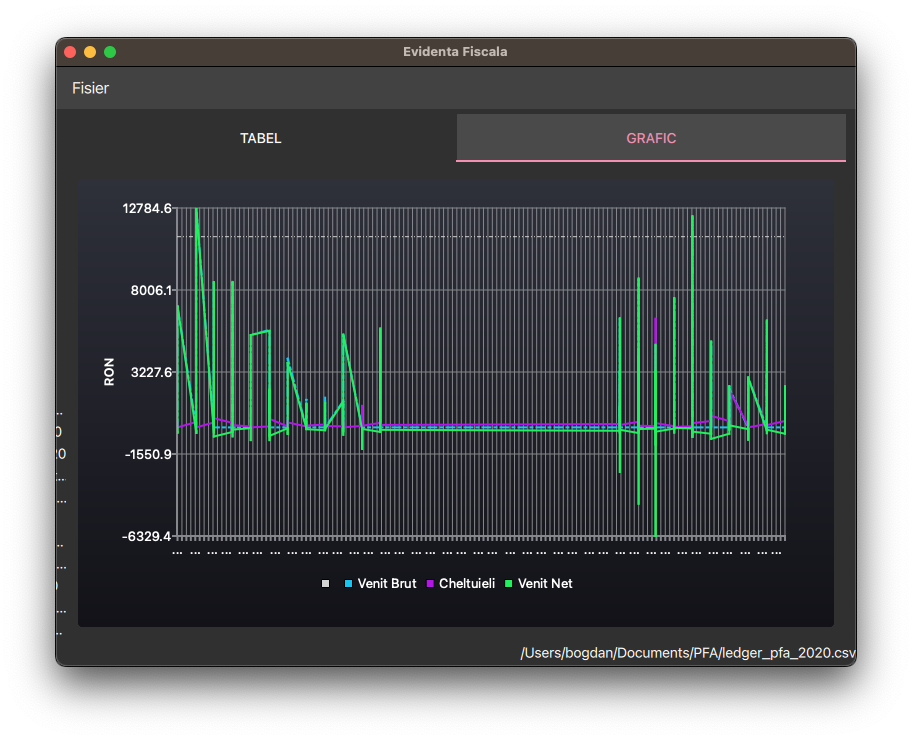
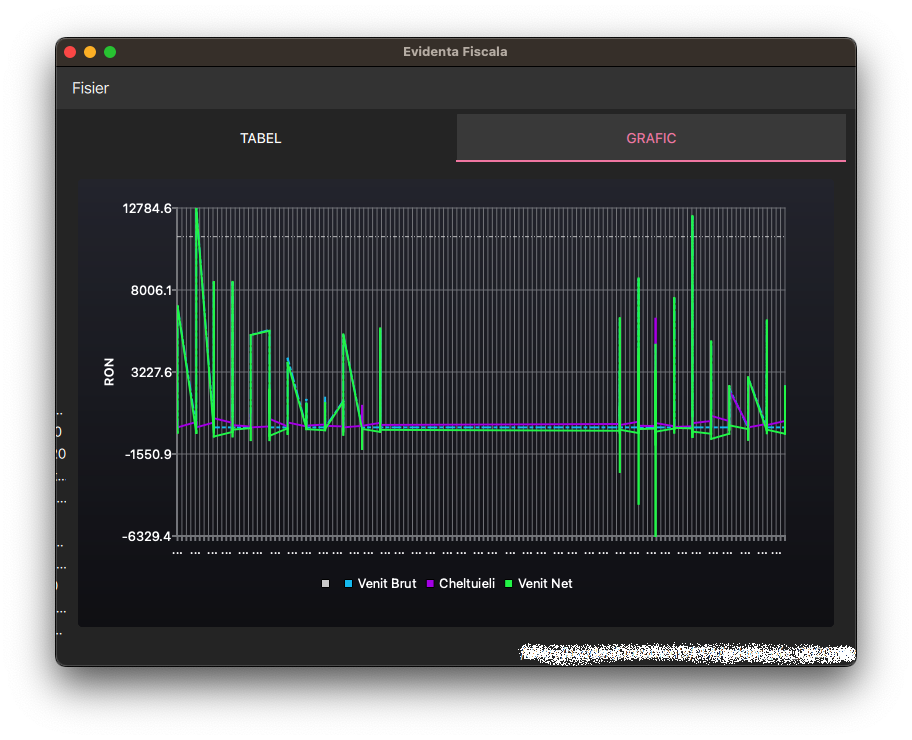
corr

Changed region(s): [[0.5526, 0.8703, 0.9518, 0.9014], [0.0614, 0.0622, 0.1228, 0.0932]]

diff --git a/src/tablemodel.cpp b/src/tablemodel.cpp
@@ -29,12 +29,8 @@ TableModel::TableModel() : _tableHeader({"Data", "Venituri prin Banca", "Venitur
 {
     setObjectName("tableModel");
 
-#ifdef RELEASE_FOLDER
     setFileName(QStandardPaths::writableLocation(QStandardPaths::DocumentsLocation) +
             QString("/PFA/ledger_pfa_%1.csv").arg(QDate::currentDate().year()));
-#else
-    setFileName(qApp->applicationDirPath() + QString("/ledger_pfa_%1.csv").arg(QDate::currentDate().year()));
-#endif
     for (int i = 0; i < CURVE_COUNT; ++i) {
         _chartSeries[i] = nullptr;
     }
